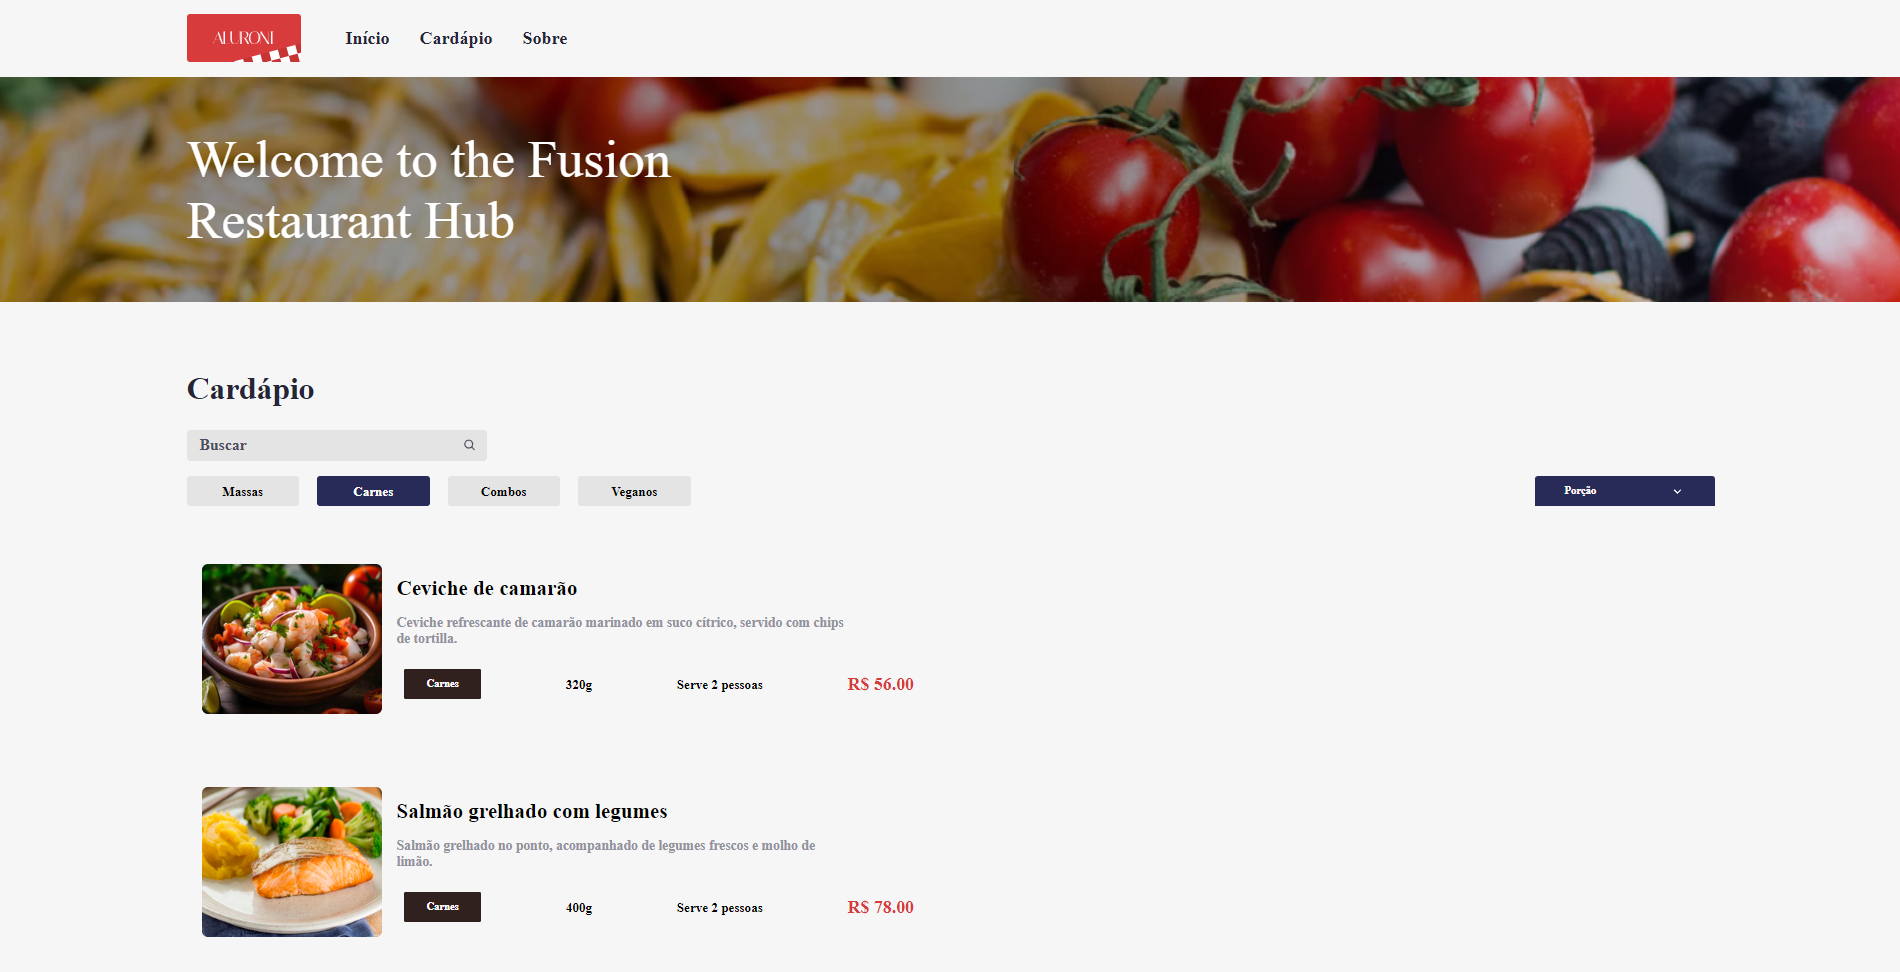
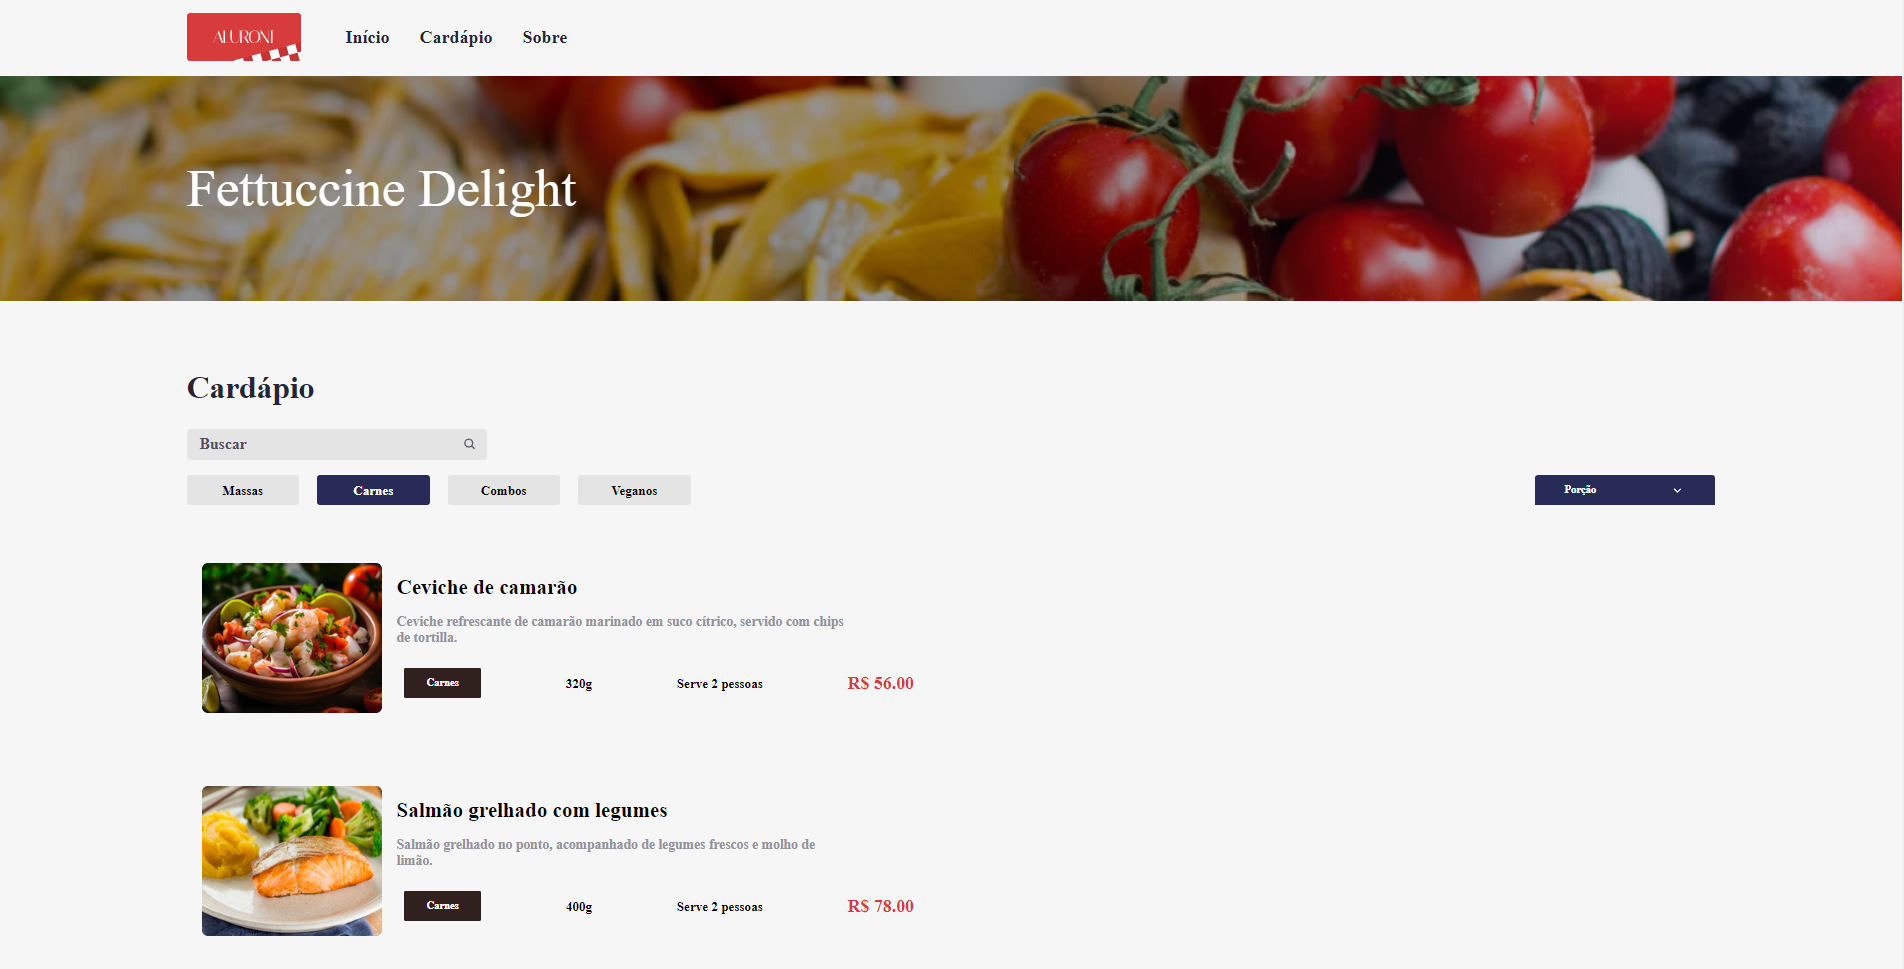
Changed [imagens]

diff --git a/src/components/DefaultPage/index.tsx b/src/components/DefaultPage/index.tsx
@@ -7,7 +7,7 @@ export default function DefaultPage() {
     <>
       <header className={styles.header}>
         <div className={styles.header__text}>
-          Welcome to the Fusion Restaurant Hub
+        Fettuccine Delight
         </div>
       </header>
       <div className={stylesTema.container}>
